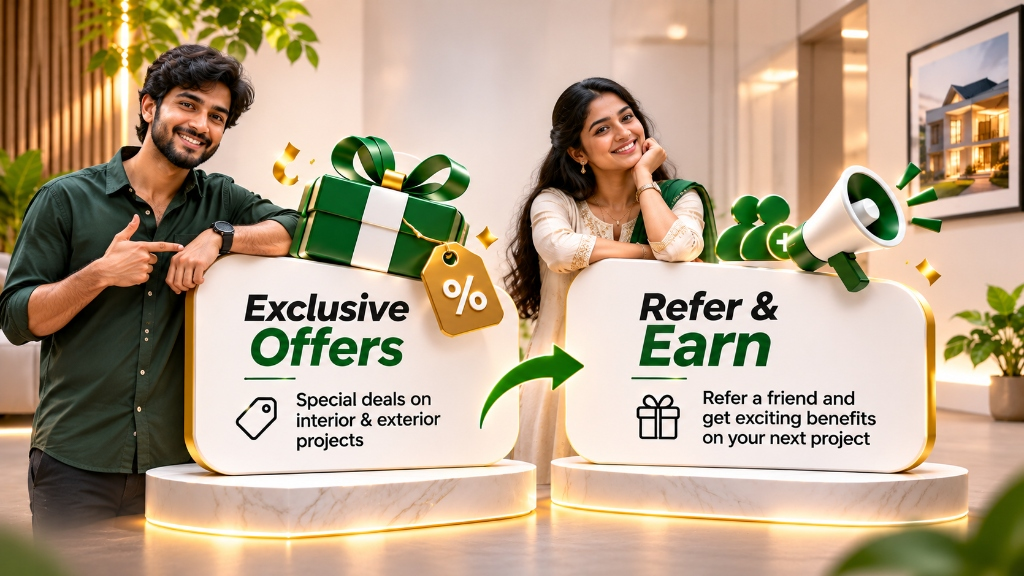
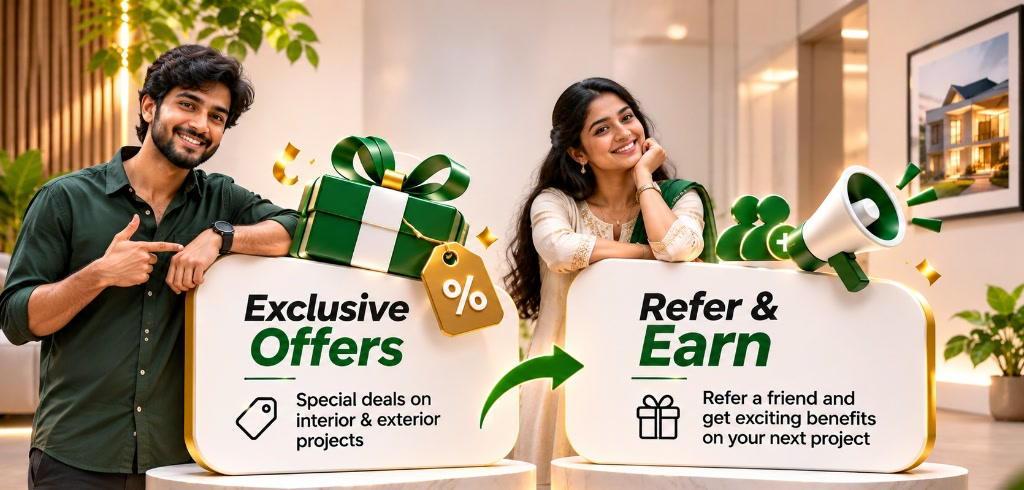
Reduce bottom size: crop dead floor, position buttons below visual, compact main spacing

diff --git a/offers.html b/offers.html
@@ -39,7 +39,7 @@
     <!-- Page Header Banner with Complete 3D Offers & Referral Visual -->
   <section class="referral-showcase-hero">
     <div class="referral-visual-container">
-      <img src="/assets/referral-hero.jpg?v=5" alt="Exclusive Offers & Refer and Earn - Art Homes Interior Studio" class="referral-visual-img">
+      <img src="/assets/referral-hero.jpg?v=6" alt="Exclusive Offers & Refer and Earn - Art Homes Interior Studio" class="referral-visual-img">
       <div class="referral-visual-overlay">
         <div class="container referral-visual-cta-wrap">
           <div class="referral-hero-actions">
@@ -56,7 +56,7 @@
   </section>
 
   <!-- Main Section -->
-  <main class="section">
+  <main class="section referral-main-compact">
     <div class="container">
 
       <!-- Dual Reward Highlights Bar -->

diff --git a/referral.html b/referral.html
@@ -39,7 +39,7 @@
     <!-- Page Header Banner with Complete 3D Offers & Referral Visual -->
   <section class="referral-showcase-hero">
     <div class="referral-visual-container">
-      <img src="/assets/referral-hero.jpg?v=5" alt="Exclusive Offers & Refer and Earn - Art Homes Interior Studio" class="referral-visual-img">
+      <img src="/assets/referral-hero.jpg?v=6" alt="Exclusive Offers & Refer and Earn - Art Homes Interior Studio" class="referral-visual-img">
       <div class="referral-visual-overlay">
         <div class="container referral-visual-cta-wrap">
           <div class="referral-hero-actions">
@@ -56,7 +56,7 @@
   </section>
 
   <!-- Main Section -->
-  <main class="section">
+  <main class="section referral-main-compact">
     <div class="container">
 
       <!-- Dual Reward Highlights Bar -->

diff --git a/styles.css b/styles.css
@@ -5397,21 +5397,20 @@ html, body {
 .referral-visual-img {
   width: 100%;
   height: auto;
-  max-height: none;
   display: block;
-  object-fit: cover;
+  object-fit: contain;
   object-position: center top;
   transform: none !important;
   transition: none !important;
 }
 
 .referral-visual-overlay {
-  position: absolute;
-  bottom: 18px;
-  left: 0;
-  right: 0;
+  position: relative;
+  width: 100%;
+  padding: 16px 16px 20px;
   display: flex;
   justify-content: center;
+  background: #fbf9f5;
   z-index: 3;
 }
 
